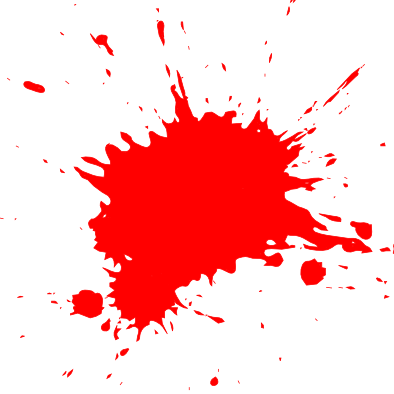
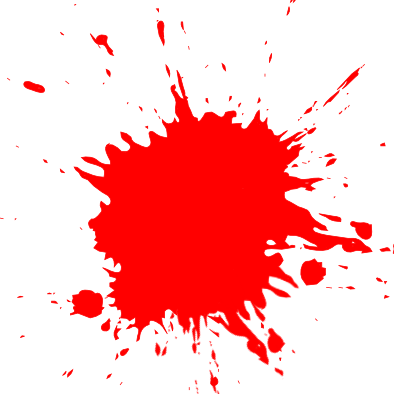
modification des images des taches pour que les taches soients mieux répartis dans l'image

Changed region(s): [[0.4264, 0.6396, 0.7614, 1.0], [0.3959, 0.8528, 0.4264, 0.9137], [0.3046, 0.6396, 0.335, 0.6701]]

diff --git a/src/com/pi4/duet/view/game/ObstacleView.java b/src/com/pi4/duet/view/game/ObstacleView.java
@@ -35,8 +35,8 @@ public class ObstacleView extends JPanel {
 		this.setOpaque(false);
 		this.setSize(new Dimension(width, height));
 		this.setLocation(0, 0);
-		this.widthCollision = ballRadius * 9;
-		this.heightCollision = ballRadius * 9;
+		this.widthCollision = ballRadius * 8;
+		this.heightCollision = ballRadius * 8;
 		this.setVisible(true);
 		this.setLayout(null);
 

diff --git a/src/com/pi4/duet/controller/home/HomePageViewController.java b/src/com/pi4/duet/controller/home/HomePageViewController.java
@@ -88,7 +88,7 @@ public class HomePageViewController {
 
 		gv.requestFocus();
 		gv.setFocusable(true);
-
+		
 		try {
 			gc.addPattern(PatternData.read("src/resources/levels/level" + numLevel + ".ser"));
 		} catch (ClassNotFoundException e) {
